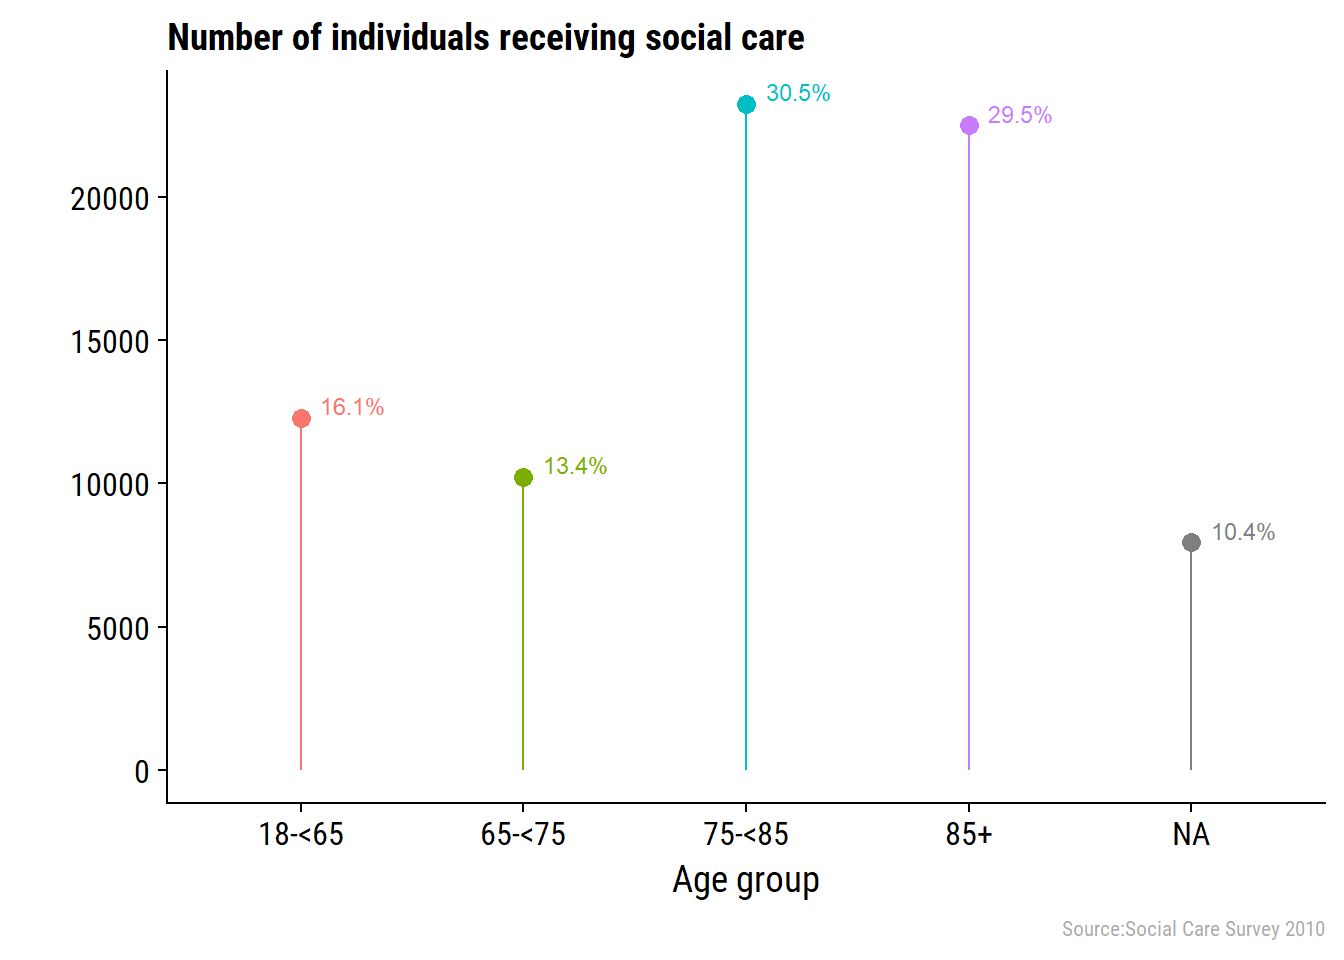
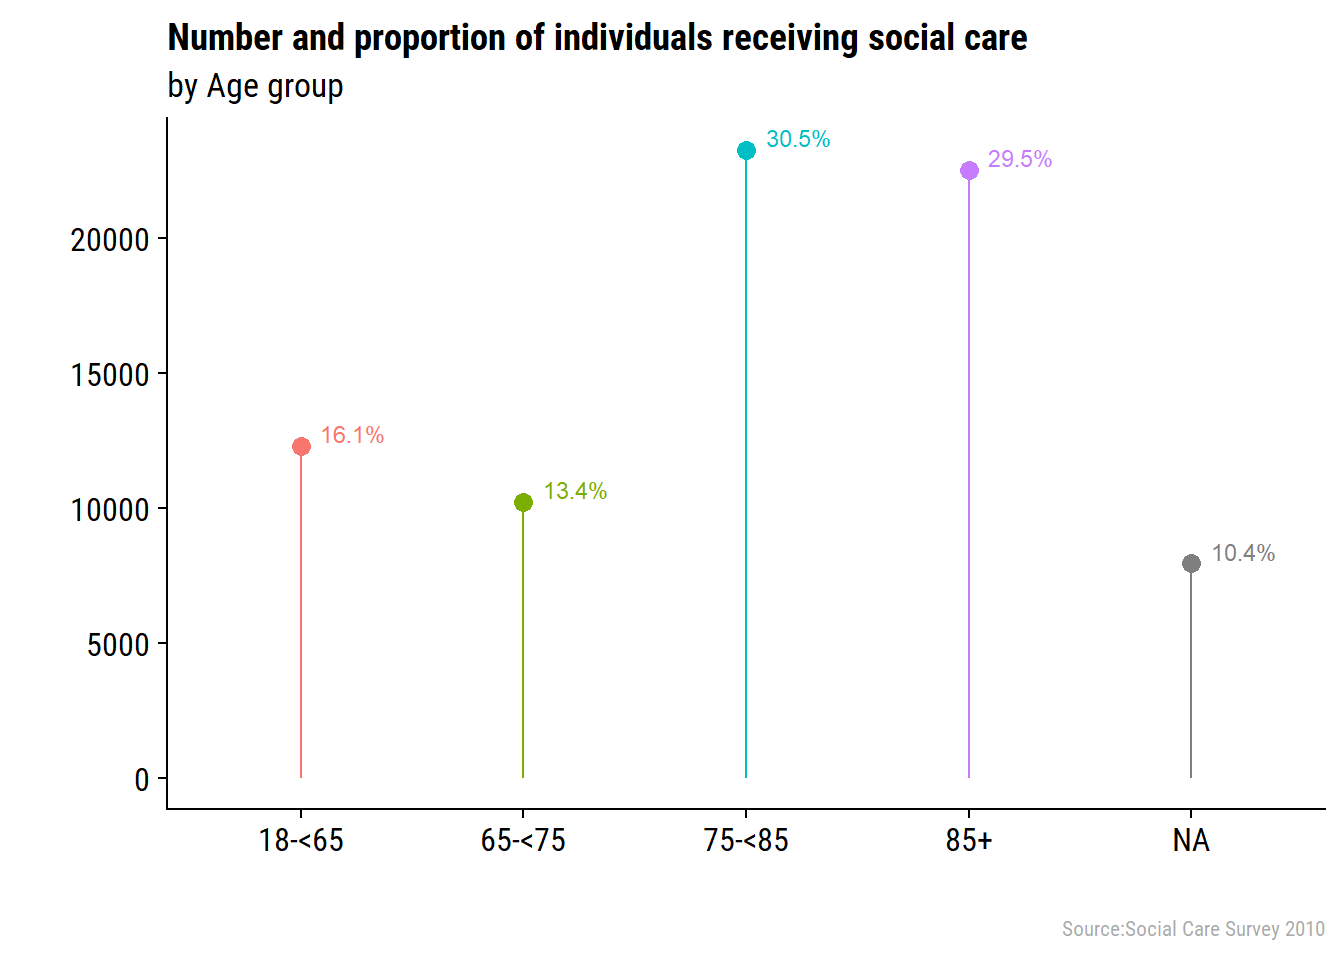
Build site.

diff --git a/docs/02_2010_eda.html b/docs/02_2010_eda.html
@@ -353,7 +353,7 @@ shared across the workflowr files. -->
 <p><strong>Last updated:</strong> 2018-02-07</p>
 <!-- Insert the code version (Git commit SHA1) if Git repository exists and R
  package git2r is installed -->
-<p><strong>Code version:</strong> 0c66685</p>
+<p><strong>Code version:</strong> 87f69d6</p>
 <!-- Add your analysis here -->
 <div id="introduction" class="section level1">
 <h1>Introduction</h1>
@@ -592,12 +592,13 @@ n variables: 16</p>
 <p>Quick look at each variable on its own to begin with. These are purely for a quick visualisation so am not going to order the factor levels or anything just now.</p>
 <p>I have created a function <code>factor_plot()</code> which will save me a lot of typing! I also have a theme: <code>x_45</code> which adjusts the x axis text when required. They are both in the “code” folder of the project if you are looking on github.</p>
 <pre class="r"><code>source(&quot;/GitHub/Scottish_Social_Care_Open_Data/code/factor_plot.R&quot;)
-source(&quot;/GitHub/Scottish_Social_Care_Open_Data/code/x_45.R&quot;)</code></pre>
+source(&quot;/GitHub/Scottish_Social_Care_Open_Data/code/x_45.R&quot;)
+source(&quot;/GitHub/Scottish_Social_Care_Open_Data/code/labels_factor_2010.R&quot;)</code></pre>
 <div id="age-group" class="section level3">
 <h3>Age group</h3>
 <pre class="r"><code>factor_plot(soc_care10, age_grp) +
-  labs(x= &quot;Age group&quot;,
-       caption = &quot;Source:Social Care Survey 2010&quot;) </code></pre>
+  labs(subtitle = &quot;by Age group&quot;) +
+  labels_2010</code></pre>
 <p><img src="figure/02_2010_eda.Rmd/viz_age_grp-1.png" width="672" style="display: block; margin: auto;" /></p>
 <p>The majority of individuals receiving social care are over the age of 75.</p>
 </div>
@@ -605,8 +606,8 @@ source(&quot;/GitHub/Scottish_Social_Care_Open_Data/code/x_45.R&quot;)</code></p
 <h3>Client Group</h3>
 <pre class="r"><code>factor_plot(soc_care10, client_grp) +
   x_45 +
-  labs(x = &quot;Client Group&quot;,
-       caption = &quot;Source:Social Care Survey 2010&quot;)</code></pre>
+  labs(subtitle = &quot;by Client group&quot;) +
+  labels_2010</code></pre>
 <p><img src="figure/02_2010_eda.Rmd/viz_client_grp-1.png" width="672" style="display: block; margin: auto;" /></p>
 <p>Whilst these groups might look very interesting, the quality of the data is questionable. The social care survey summary reports mention that there is quite a difference between how different local authorities use these codes. Infirmity due to age and Physical disability are almost interchangeable. Dementia is very underecorded. The fact that dementia and mental health are lumoed together is not particularly helpful - there is a good chance this refelects two very different client groups.</p>
 </div>
@@ -615,10 +616,39 @@ source(&quot;/GitHub/Scottish_Social_Care_Open_Data/code/x_45.R&quot;)</code></p
 <pre class="r"><code>factor_plot(soc_care10, council) +
   coord_flip() +
   expand_limits(y = 8500) +
-  labs(x = &quot;&quot;,
-       caption = &quot;Source: Social Care Survey 2010&quot;)</code></pre>
-<p><img src="figure/02_2010_eda.Rmd/viz_la-1.png" width="576" style="display: block; margin: auto;" /></p>
+  labs(subtitle = &quot;by Local Authority&quot;) +
+  labels_2010</code></pre>
+<p><img src="figure/02_2010_eda.Rmd/viz_la-1.png" width="768" style="display: block; margin: auto;" /></p>
 <p>This plot could really do with ordering if going to be used for anything specific. As it is I don’t need to just now. Glasgow City accounts for 10.3% of all social care!</p>
+</div>
+<div id="gender" class="section level3">
+<h3>Gender</h3>
+<pre class="r"><code>factor_plot(soc_care10, gender) +
+  labs(subtitle = &quot;by Gender&quot;) +
+  labels_2010</code></pre>
+<p><img src="figure/02_2010_eda.Rmd/viz_gender-1.png" width="672" style="display: block; margin: auto;" /></p>
+</div>
+<div id="housing-type" class="section level3">
+<h3>Housing type</h3>
+<pre class="r"><code>factor_plot(soc_care10, housing_type) +
+  labs(subtitle = &quot;by Housing type&quot;) +
+  labels_2010</code></pre>
+<p><img src="figure/02_2010_eda.Rmd/viz_housing-1.png" width="672" style="display: block; margin: auto;" /></p>
+</div>
+<div id="living-arrangements" class="section level3">
+<h3>Living Arrangements</h3>
+<pre class="r"><code>factor_plot(soc_care10, living_arr) +
+  labs(subtitle = &quot;by Living arrangements&quot;) +
+  labels_2010</code></pre>
+<p><img src="figure/02_2010_eda.Rmd/viz_living_arr-1.png" width="672" style="display: block; margin: auto;" /></p>
+<p>Really large amount of missing data here - I will investigate this further on a different page.</p>
+</div>
+<div id="total-hours" class="section level3">
+<h3>Total hours</h3>
+<pre class="r"><code>factor_plot(soc_care10, total_hrs) +
+  labs(subtitle = &quot;by Total weekly hours of care&quot;) +
+  labels_2010</code></pre>
+<p><img src="figure/02_2010_eda.Rmd/viz_total_hrs-1.png" width="672" style="display: block; margin: auto;" /></p>
 </div>
 </div>
 <div id="session-information" class="section level2">
